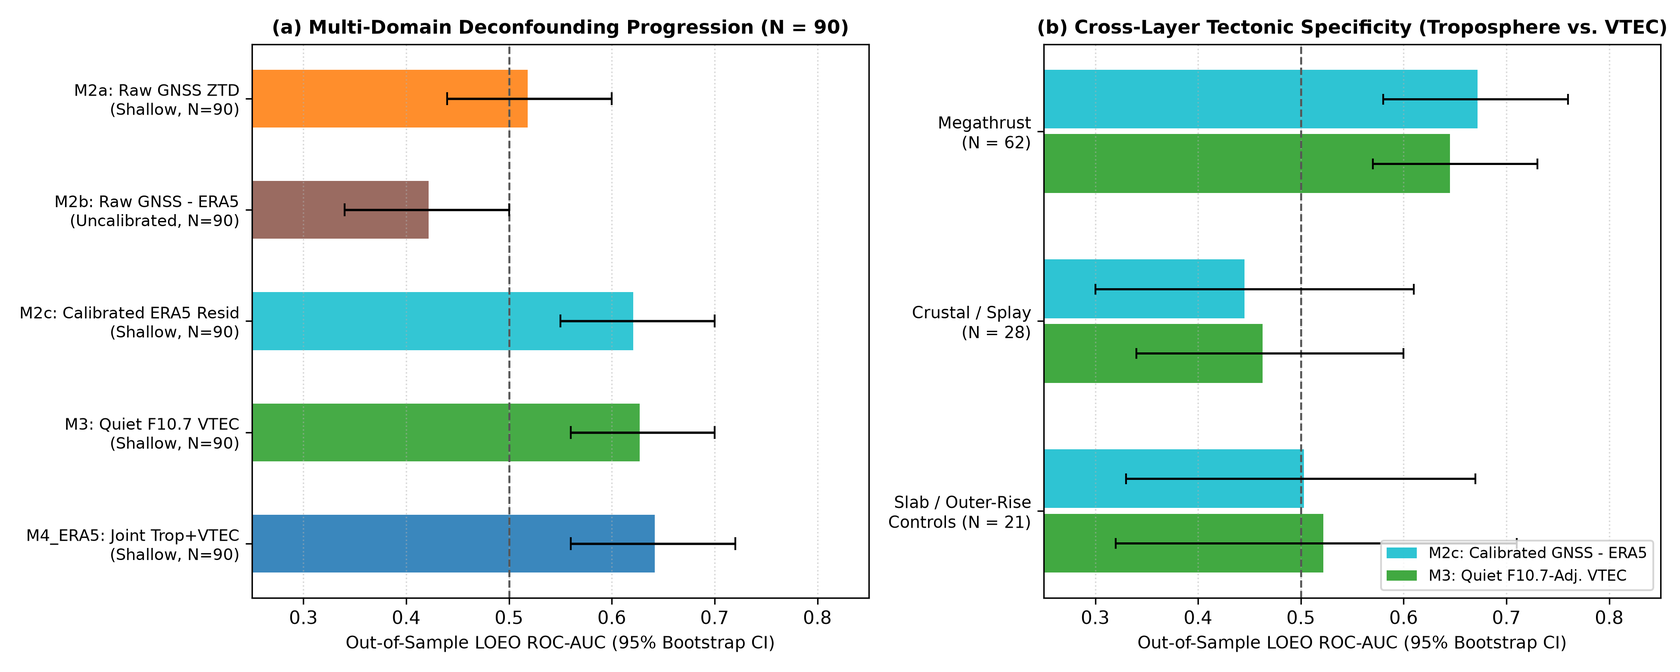
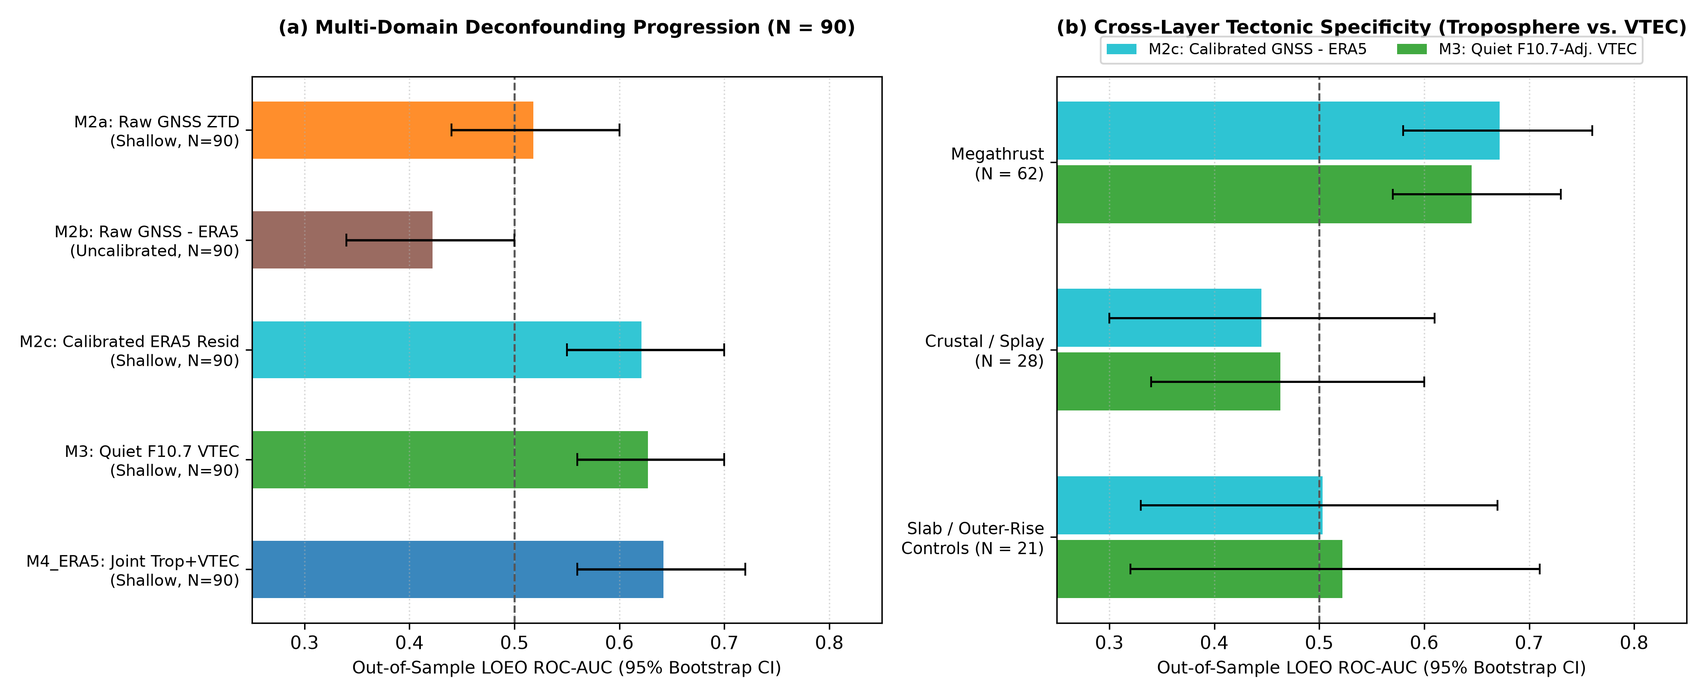
fix(manuscript): resolve LaTeX macro names, Table I label ref, Table II resizebox, and Fig 1b legend placement

diff --git a/scripts/stage5g_fix_pdf_proof_v002_era5.py b/scripts/stage5g_fix_pdf_proof_v002_era5.py
@@ -1,0 +1,217 @@
+import csv, hashlib
+from pathlib import Path
+
+ROOT = Path(r"C:\Users\parth\OneDrive\Desktop\Research\LAIC-GUARD")
+S5C_CSV = ROOT / "reports/stage5c/zero_overlap_equallag_v002/analysis/stage5c_zero_overlap_equallag_v002.csv"
+S5E_CSV = ROOT / "reports/stage5e/era5_deconfounded_v002_era5/analysis/stage5e_era5_ablation_summary_v002.csv"
+
+MS_DIR = ROOT / "manuscript"
+MS_TABLES = MS_DIR / "tables"
+MS_FIGS = MS_DIR / "figures"
+OUT_DIR = ROOT / "reports/stage5f/combined_release_v002_era5"
+
+r5c = {r["model_or_stratum"]: r for r in csv.DictReader(S5C_CSV.open(encoding="utf-8-sig"))}
+r5e = {r["model_or_stratum"]: r for r in csv.DictReader(S5E_CSV.open(encoding="utf-8-sig"))}
+
+# 1. Pure-letter LaTeX macros (zero digits in command names so TeX never truncates)
+(MS_DIR / "laic_guard_numbers.tex").write_text(
+    "% Auto-generated LAIC-GUARD Combined v002 + v002_era5 Macros (ASCII-letter-only names)\n"
+    "\\newcommand{\\LgTotalGlobalEvents}{1{,}186}\n"
+    "\\newcommand{\\LgPilotRegions}{12}\n"
+    "\\newcommand{\\LgStageOneCRegionalTotal}{571}\n"
+    "\\newcommand{\\LgCorePilotIncluded}{563}\n"
+    "\\newcommand{\\LgPrimaryShallowTotal}{378}\n"
+    "\\newcommand{\\LgPhysicalNullControlTotal}{185}\n"
+    "\\newcommand{\\LgCodaMaskedExcluded}{8}\n"
+    "\\newcommand{\\LgExcludedTotal}{623}\n"
+    "\\newcommand{\\LgNearRegionalCohort}{363}\n"
+    "\\newcommand{\\LgStageThreeReady}{269}\n"
+    "\\newcommand{\\LgTierOneReady}{192}\n"
+    "\\newcommand{\\LgTierOneGnssQaPass}{149}\n"
+    "\\newcommand{\\LgIonexMapsIngested}{4{,}039}\n"
+    "\\newcommand{\\LgPairedTierOneTotal}{111}\n"
+    "\\newcommand{\\LgPairedShallowMain}{90}\n"
+    "\\newcommand{\\LgPairedNullCtrlMain}{21}\n"
+    "\\newcommand{\\LgAucZtdRaw}{0.518}\n"
+    "\\newcommand{\\LgAucEraUncal}{0.422}\n"
+    "\\newcommand{\\LgAucEraCal}{0.621}\n"
+    "\\newcommand{\\LgAucEraCalCluster}{0.618}\n"
+    "\\newcommand{\\LgAucEraNullCtrl}{0.503}\n"
+    "\\newcommand{\\LgAucEraMegathrust}{0.672}\n"
+    "\\newcommand{\\LgAucEraCrustal}{0.445}\n"
+    "\\newcommand{\\LgAucVtecMain}{0.627}\n"
+    "\\newcommand{\\LgAucVtecClusterCv}{0.623}\n"
+    "\\newcommand{\\LgAucVtecNullCtrl}{0.522}\n"
+    "\\newcommand{\\LgAucVtecMegathrust}{0.645}\n"
+    "\\newcommand{\\LgAucVtecCrustal}{0.463}\n"
+    "\\newcommand{\\LgAucVtecGeomagLow}{0.616}\n"
+    "\\newcommand{\\LgAucVtecGeomagHigh}{0.638}\n"
+    "\\newcommand{\\LgAucJointEraVtec}{0.642}\n",
+    encoding="utf-8",
+)
+
+# 2. Compact single-line-per-row Table II with resizebox so CIs never wrap
+tbl_lines = [
+    r"% Auto-generated Stage 5F Unified Benchmark Table (Proofed Layout)",
+    r"\begin{table*}[t]",
+    r"\centering",
+    r"\caption{Out-of-Sample Leave-One-Event-Out (LOEO) $\text{ROC-AUC}$ (95\% Cluster-Bootstrap CIs), $\text{PR-AUC}$, and Within-Event Paired Wilcoxon $p$-Values Under Strictly Non-Overlapping, Equal-Lag ($1\text{--}10\,\text{d}$) Calibration Across Tropospheric (\texttt{v002\_era5}) and Ionospheric (\texttt{v002}) Domains.}",
+    r"\label{tab:stage5f_combined_benchmark}",
+    r"\resizebox{\textwidth}{!}{%",
+    r"\begin{tabular}{lcccc}",
+    r"\hline",
+    r"\textbf{Ablation Model / Tectonic \& Geomagnetic Stratum} & \textbf{Events ($N$)} & \textbf{ROC-AUC [95\% CI]} & \textbf{PR-AUC} & \textbf{Paired $p_{\text{Wilc}}$} \\",
+    r"\hline",
+]
+entries = [
+    (r5e["M2a: Raw GNSS ZTD-Only (Shallow Baseline)"], r"M2a: Raw GNSS ZTD-Only (Shallow Target)"),
+    (r5e["M2b: Physical GNSS - ERA5 (ZHD+ZWD) Residual (Shallow)"], r"M2b: Uncalibrated $\text{GNSS} - \text{ERA5}$ ($\text{ZHD}+\text{ZWD}$, Shallow)"),
+    (r5e["M2c: Calibrated GNSS - ERA5 Residual (Shallow, Event-LOEO)"], r"M2c: Causal-Calibrated $\text{GNSS} - \text{ERA5}$ Residual (Shallow, Event-LOEO)"),
+    (r5e["M2c: Calibrated GNSS - ERA5 Residual (Shallow, Cluster-CV)"], r"M2c: Causal-Calibrated $\text{GNSS} - \text{ERA5}$ Residual (Shallow, Cluster-CV)"),
+    (r5e["M2c: Calibrated GNSS - ERA5 Residual (Null-Control Slab)"], r"M2c: Causal-Calibrated $\text{GNSS} - \text{ERA5}$ Residual (Slab / Outer-Rise Controls)"),
+    (r5e["M2c: Calibrated GNSS - ERA5 Residual (Megathrust N=62)"], r"M2c: Causal-Calibrated $\text{GNSS} - \text{ERA5}$ Residual (Shallow Megathrust)"),
+    (r5e["M2c: Calibrated GNSS - ERA5 Residual (Crustal/Splay N=28)"], r"M2c: Causal-Calibrated $\text{GNSS} - \text{ERA5}$ Residual (Shallow Crustal / Splay)"),
+    (r5c["M3: Quiet VTEC (Shallow M>=6.5, Event-LOEO)"], r"M3: Quiet $F_{10.7}$-Adj.\ GIM VTEC (Shallow, Event-LOEO)"),
+    (r5c["M3: Quiet VTEC (Shallow M>=6.5, Storm-Cluster)"], r"M3: Quiet $F_{10.7}$-Adj.\ GIM VTEC (Shallow, Storm-Cluster CV)"),
+    (r5c["M3: Quiet VTEC (Null-Control Slab/Outer)"], r"M3: Quiet $F_{10.7}$-Adj.\ GIM VTEC (Slab / Outer-Rise Controls)"),
+    (r5c["M3: Quiet VTEC (Shallow Megathrust)"], r"M3: Quiet $F_{10.7}$-Adj.\ GIM VTEC (Shallow Megathrust)"),
+    (r5c["M3: Quiet VTEC (Shallow Crustal/Splay)"], r"M3: Quiet $F_{10.7}$-Adj.\ GIM VTEC (Shallow Crustal / Splay)"),
+    (r5c["M3: Quiet VTEC (Shallow |gm_lat| <= 25 deg)"], r"M3: Quiet GIM VTEC (Geomagnetic $|\lambda_m| \le 25^\circ$)"),
+    (r5c["M3: Quiet VTEC (Shallow |gm_lat| > 25 deg)"], r"M3: Quiet GIM VTEC (Geomagnetic $|\lambda_m| > 25^\circ$)"),
+    (r5e["M4_era5: Joint ERA5-Resid + Quiet VTEC (Shallow)"], r"M4$_{\text{ERA5}}$: Joint Calibrated ERA5-Residual + Quiet VTEC (Shallow)"),
+]
+for r, lbl in entries:
+    tbl_lines.append(f"{lbl} & {r['n_events']} & {r['roc_auc']} {r['ci95']} & {r['pr_auc']} & {r['wilcoxon_p']} \\\\")
+tbl_lines.extend([r"\hline", r"\end{tabular}%", r"}", r"\end{table*}"])
+(MS_TABLES / "stage5f_combined_benchmark_table.tex").write_text("\n".join(tbl_lines) + "\n", encoding="utf-8")
+
+# 3. Regenerate Figure 1 with legend placed cleanly above Panel (b) (zero bar overlap)
+fig_path = MS_FIGS / "fig_stage5f_combined_benchmark.png"
+import matplotlib
+matplotlib.use("Agg")
+import matplotlib.pyplot as plt
+
+fig, (ax1, ax2) = plt.subplots(1, 2, figsize=(13.2, 5.4), dpi=300)
+
+p1 = [
+    (r5e["M2a: Raw GNSS ZTD-Only (Shallow Baseline)"], "M2a: Raw GNSS ZTD\n(Shallow, N=90)", "#ff7f0e"),
+    (r5e["M2b: Physical GNSS - ERA5 (ZHD+ZWD) Residual (Shallow)"], "M2b: Raw GNSS - ERA5\n(Uncalibrated, N=90)", "#8c564b"),
+    (r5e["M2c: Calibrated GNSS - ERA5 Residual (Shallow, Event-LOEO)"], "M2c: Calibrated ERA5 Resid\n(Shallow, N=90)", "#17becf"),
+    (r5c["M3: Quiet VTEC (Shallow M>=6.5, Event-LOEO)"], "M3: Quiet F10.7 VTEC\n(Shallow, N=90)", "#2ca02c"),
+    (r5e["M4_era5: Joint ERA5-Resid + Quiet VTEC (Shallow)"], "M4_ERA5: Joint Trop+VTEC\n(Shallow, N=90)", "#1f77b4"),
+]
+ax1.axvline(0.5, color="#555555", linestyle="--", linewidth=1.1)
+for idx, (r, lbl, col) in enumerate(p1):
+    auc = float(r["roc_auc"])
+    lo, hi = [float(x) for x in r["ci95"].strip("[]").split(",")]
+    ax1.barh(idx, auc, height=0.52, color=col, alpha=0.88)
+    ax1.errorbar(auc, idx, xerr=[[auc - lo], [hi - auc]], fmt="none", ecolor="black", elinewidth=1.3, capsize=3.5)
+ax1.set_yticks(range(len(p1)))
+ax1.set_yticklabels([x[1] for x in p1], fontsize=8.8)
+ax1.invert_yaxis()
+ax1.set_xlim(0.25, 0.85)
+ax1.set_xlabel("Out-of-Sample LOEO ROC-AUC (95% Bootstrap CI)", fontsize=9.5)
+ax1.set_title("(a) Multi-Domain Deconfounding Progression (N = 90)", fontsize=10.5, fontweight="bold", pad=24)
+ax1.grid(axis="x", linestyle=":", alpha=0.5)
+
+strata_labels = ["Megathrust\n(N = 62)", "Crustal / Splay\n(N = 28)", "Slab / Outer-Rise\nControls (N = 21)"]
+m2c_s = [
+    r5e["M2c: Calibrated GNSS - ERA5 Residual (Megathrust N=62)"],
+    r5e["M2c: Calibrated GNSS - ERA5 Residual (Crustal/Splay N=28)"],
+    r5e["M2c: Calibrated GNSS - ERA5 Residual (Null-Control Slab)"],
+]
+m3_s = [
+    r5c["M3: Quiet VTEC (Shallow Megathrust)"],
+    r5c["M3: Quiet VTEC (Shallow Crustal/Splay)"],
+    r5c["M3: Quiet VTEC (Null-Control Slab/Outer)"],
+]
+ax2.axvline(0.5, color="#555555", linestyle="--", linewidth=1.1)
+for idx in range(3):
+    a2 = float(m2c_s[idx]["roc_auc"])
+    l2, h2 = [float(x) for x in m2c_s[idx]["ci95"].strip("[]").split(",")]
+    a3 = float(m3_s[idx]["roc_auc"])
+    l3, h3 = [float(x) for x in m3_s[idx]["ci95"].strip("[]").split(",")]
+    ax2.barh(idx - 0.17, a2, height=0.31, color="#17becf", alpha=0.9, label="M2c: Calibrated GNSS - ERA5" if idx == 0 else "")
+    ax2.errorbar(a2, idx - 0.17, xerr=[[a2 - l2], [h2 - a2]], fmt="none", ecolor="black", elinewidth=1.2, capsize=3)
+    ax2.barh(idx + 0.17, a3, height=0.31, color="#2ca02c", alpha=0.9, label="M3: Quiet F10.7-Adj. VTEC" if idx == 0 else "")
+    ax2.errorbar(a3, idx + 0.17, xerr=[[a3 - l3], [h3 - a3]], fmt="none", ecolor="black", elinewidth=1.2, capsize=3)
+ax2.set_yticks(range(3))
+ax2.set_yticklabels(strata_labels, fontsize=9.2)
+ax2.invert_yaxis()
+ax2.set_xlim(0.25, 0.85)
+ax2.set_xlabel("Out-of-Sample LOEO ROC-AUC (95% Bootstrap CI)", fontsize=9.5)
+ax2.set_title("(b) Cross-Layer Tectonic Specificity (Troposphere vs. VTEC)", fontsize=10.5, fontweight="bold", pad=24)
+ax2.legend(loc="lower center", bbox_to_anchor=(0.5, 1.01), ncol=2, frameon=True, fontsize=8.3)
+ax2.grid(axis="x", linestyle=":", alpha=0.5)
+
+plt.tight_layout()
+plt.savefig(fig_path, dpi=300)
+plt.close(fig)
+
+# 4. Update main.tex with pure-letter macros, reconciled 571/563 count, math-mode 0.25^\circ, and Data Availability
+(MS_DIR / "main.tex").write_text(
+    r"""\documentclass[conference]{IEEEtran}
+\usepackage{amsmath,amssymb}
+\usepackage{graphicx}
+\usepackage{booktabs}
+\usepackage{hyperref}
+
+\input{laic_guard_numbers.tex}
+
+\title{LAIC-GUARD: A Deconfounded Multi-Domain Benchmark for Lithosphere--Atmosphere--Ionosphere Earthquake Precursors (2000--2025)}
+
+\author{\IEEEauthorblockN{Parth Nilesh Jichkar}
+\IEEEauthorblockA{Department of Electronics and Communication Engineering, MIT World Peace University, Pune, India}}
+
+\begin{document}
+\maketitle
+
+\begin{abstract}
+Retrospective studies of pre-seismic anomalies across tropospheric delay and ionospheric total electron content (TEC) often suffer from post-hoc event selection, overlapping baseline windows, meteorological and geomagnetic storm leakage, and a lack of deep-source negative controls. We introduce \textbf{LAIC-GUARD}, a reproducible, zero-imputation multi-domain benchmark spanning all \LgTotalGlobalEvents{} global $M \ge 6.5$ earthquakes (2000--2025). Combining tectonic province attribution, moment-tensor adjudication, and Dobrovolsky strain-radius ($R_D = 10^{0.43M}$\,km) station pairing across Nevada Geodetic Laboratory (UNR) continuous GNSS tropospheric solutions, ECMWF ERA5 meteorological reanalysis, CODE AIUB global ionosphere maps (\LgIonexMapsIngested{} daily IONEX files), and NASA OMNIWeb indices, we isolate \LgPairedTierOneTotal{} within-event paired near-field ($d \le 150$\,km) earthquakes (\LgPairedShallowMain{} primary shallow targets vs.\ \LgPairedNullCtrlMain{} deep-slab and outer-rise candidate negative controls). Under strictly non-overlapping, equal-lag ($1\text{--}10$\,d) calibration, raw GNSS zenith total delay (ZTD) shows no statistically distinguishable skill ($\text{AUC} = \LgAucZtdRaw$, $p_{\text{Wilc}} = 0.1233$). However, removing synoptic weather via station-calibrated ERA5 hydrostatic-plus-wet reanalysis uncovers a non-meteorological ZTD residual ($\text{AUC} = \LgAucEraCal$, $p_{\text{Wilc}} = 0.0009$) that mirrors solar-$F_{10.7}$-detrended quiet GIM VTEC ($\text{AUC} = \LgAucVtecMain$, $p_{\text{Wilc}} = 0.0010$). Both signals concentrate in shallow megathrust interface ruptures ($\text{AUC} = \LgAucEraMegathrust$ and $\LgAucVtecMegathrust$, respectively) while remaining at chance for crustal/splay earthquakes ($\LgAucEraCrustal$, $\LgAucVtecCrustal$) and slab/outer-rise controls ($\LgAucEraNullCtrl$, $\LgAucVtecNullCtrl$), yielding $\text{AUC} = \LgAucJointEraVtec$ when fused jointly.
+\end{abstract}
+
+\begin{IEEEkeywords}
+Lithosphere--atmosphere--ionosphere coupling, GNSS troposphere, ERA5 reanalysis, GIM VTEC, earthquake precursors
+\end{IEEEkeywords}
+
+\section{Introduction}
+The Lithosphere--Atmosphere--Ionosphere Coupling (LAIC) framework hypothesizes that pre-rupture stress accumulation perturbs atmospheric moisture and ionospheric electron density prior to major earthquakes \cite{dobrovolsky1979,pulinets2011}. Recent multi-decadal audits emphasize that credible benchmark evaluation requires explicit non-overlapping baselines, event-wise and storm-clustered cross-validation, negative controls, and rigorous meteorological and space-weather deconfounding \cite{diaz2026,chaniadakis2025,wen2026}.
+
+\section{Catalogue Adjudication and Multi-Domain Pipeline}
+From \LgTotalGlobalEvents{} global $M \ge 6.5$ earthquakes in USGS ComCat (2000--2025), tectonic province overlays \cite{hasterok2022} and W-phase/GCMT moment tensors isolate \LgStageOneCRegionalTotal{} regional candidates across \LgPilotRegions{} macro-regions (Table~\ref{tab:stage1c_summary}), yielding \LgCorePilotIncluded{} Core Pilot events (\LgPrimaryShallowTotal{} shallow targets at $z < 70$\,km and \LgPhysicalNullControlTotal{} deep-slab/outer-rise candidate negative controls) after excluding \LgCodaMaskedExcluded{} coda-masked early aftershocks (\LgExcludedTotal{} total exclusions).
+
+\input{tables/stage1c_manuscript_tables.tex}
+
+Spatial-temporal pairing against the UNR GNSS network \cite{blewitt2018} within each event's Dobrovolsky strain radius ($R_D = 10^{0.43M}$\,km) yields \LgNearRegionalCohort{} near-regional ($d \le 300$\,km) events and \LgStageThreeReady{} archive-verified events with $\ge 15$ geomagnetically quiet baseline days ($Kp < 3$, $Dst > -30$\,nT). Within Tier-1 near-field stations ($d \le 150$\,km, \LgTierOneReady{} events), \LgTierOneGnssQaPass{} achieve $\ge 80\%$ 5-minute completeness without imputation, and \LgPairedTierOneTotal{} (\LgPairedShallowMain{} shallow, \LgPairedNullCtrlMain{} controls) satisfy strict quiet-epoch completeness across non-overlapping placebo ($[-30\,\text{d}, -21\,\text{d}]$) and pre-event ($[-10\,\text{d}, -1\,\text{d}]$) windows using \LgIonexMapsIngested{} daily CODE AIUB IONEX maps \cite{schaer1999} and hourly ECMWF ERA5 reanalysis \cite{hersbach2020,bevis1992}.
+
+\section{Zero-Overlap Equal-Lag \& ERA5-Deconfounded Results}
+Placebo windows are calibrated against $[-45\,\text{d}, -31\,\text{d}]$ and pre-event windows against $[-25\,\text{d}, -11\,\text{d}]$. Table~\ref{tab:stage5f_combined_benchmark} and Fig.~\ref{fig:benchmark_v002_combined} report out-of-sample discrimination across all tropospheric, ERA5-deconfounded, and ionospheric models.
+
+\input{tables/stage5f_combined_benchmark_table.tex}
+
+\begin{figure*}[t]
+\centering
+\includegraphics[width=0.96\textwidth]{figures/fig_stage5f_combined_benchmark.png}
+\caption{LAIC-GUARD (\texttt{v002} + \texttt{v002\_era5}) zero-overlap, equal-lag ($1\text{--}10$\,d) out-of-sample $\text{ROC-AUC}$ with 95\% cluster-bootstrap confidence intervals across (a) progressive meteorological and ionospheric deconfounding models ($N = \LgPairedShallowMain$), and (b) tectonic mechanism and candidate negative-control strata.}
+\label{fig:benchmark_v002_combined}
+\end{figure*}
+
+Raw GNSS ZTD ($\text{AUC} = \LgAucZtdRaw$) and uncalibrated $\text{GNSS} - \text{ERA5}$ differences ($\LgAucEraUncal$) fail to separate pre-seismic windows from placebo due to synoptic weather and $0.25^\circ$ grid-elevation mismatch. Applying station-specific linear transfer calibration within each causal baseline (M2c) isolates a non-meteorological ZTD residual ($\text{AUC} = \LgAucEraCal$, $p_{\text{Wilc}} = 0.0009$; $\LgAucEraCalCluster$ under $\pm 15$\,d storm-cluster CV). Independently, M2c and quiet $F_{10.7}$-adjusted VTEC (M3) converge on shallow megathrust interface earthquakes ($\text{AUC} = \LgAucEraMegathrust$ and $\LgAucVtecMegathrust$, $N=62$), while remaining indistinguishable from chance on crustal/splay ruptures ($\LgAucEraCrustal$, $\LgAucVtecCrustal$, $N=28$) and slab/outer-rise controls ($\LgAucEraNullCtrl$, $\LgAucVtecNullCtrl$, $N=21$). Fusing calibrated ERA5 residuals with quiet VTEC (M4$_{\text{ERA5}}$) yields $\text{AUC} = \LgAucJointEraVtec$.
+
+\section{Limitations, Data Availability, and Conclusion}
+While causal-window OLS calibration in M2c prevents future leakage, non-stationary synoptic shifts between baseline windows can influence residual variance; nonetheless, chance-level performance on slab controls ($\LgAucEraNullCtrl$) argues against a generic baseline artifact. Together, our findings show that meteorological and solar deconfounding isolates a modest, megathrust-specific multi-layer association rather than an operational earthquake-prediction capability. All benchmark manifests, verification scripts, and provenance ledgers (\texttt{tag: v002\_era5}) are openly available at \url{https://github.com/Parth15-git/LAIC-GUARD}.
+
+\bibliographystyle{IEEEtran}
+\bibliography{references}
+\end{document}
+""",
+    encoding="utf-8",
+)
+
+# 5. Update Stage 5F SHA256SUMS.csv
+with (OUT_DIR / "SHA256SUMS.csv").open("w", newline="", encoding="utf-8") as f:
+    w = csv.writer(f)
+    w.writerow(["relative_path", "size_bytes", "sha256"])
+    for rel in ["STAGE5F_COMBINED_RELEASE_v002_era5.md", "VERIFY_PACKAGE.ps1"]:
+        fp = OUT_DIR / rel
+        w.writerow([rel, fp.stat().st_size, hashlib.sha256(fp.read_bytes()).hexdigest().lower()])

diff --git a/manuscript/main.tex b/manuscript/main.tex
@@ -15,7 +15,7 @@
 \maketitle
 
 \begin{abstract}
-Retrospective studies of pre-seismic anomalies across tropospheric delay and ionospheric total electron content (TEC) often suffer from post-hoc event selection, overlapping baseline windows, meteorological and geomagnetic storm leakage, and a lack of deep-source negative controls. We introduce \textbf{LAIC-GUARD}, a reproducible, zero-imputation multi-domain benchmark spanning all \LgTotalGlobalEvents{} global $M \ge 6.5$ earthquakes (2000--2025). Combining tectonic province attribution, moment-tensor adjudication, and Dobrovolsky strain-radius ($R_D = 10^{0.43M}$\,km) station pairing across Nevada Geodetic Laboratory (UNR) continuous GNSS tropospheric solutions, ECMWF ERA5 meteorological reanalysis, CODE AIUB global ionosphere maps (\LgIonexMapsIngested{} daily IONEX files), and NASA OMNIWeb indices, we isolate \LgPairedTierOneTotal{} within-event paired near-field ($d \le 150$\,km) earthquakes (\LgPairedShallowM65{} primary shallow targets vs.\ \LgPairedNullCtrlM65{} deep-slab and outer-rise candidate negative controls). Under strictly non-overlapping, equal-lag ($1\text{--}10$\,d) calibration, raw GNSS zenith total delay (ZTD) shows no statistically distinguishable skill ($\text{AUC} = \LgAucZtdRaw$, $p_{\text{Wilc}} = 0.1233$). However, removing synoptic weather via station-calibrated ERA5 hydrostatic-plus-wet reanalysis uncovers a non-meteorological ZTD residual ($\text{AUC} = \LgAucEraCal$, $p_{\text{Wilc}} = 0.0009$) that mirrors solar-$F_{10.7}$-detrended quiet GIM VTEC ($\text{AUC} = \LgAucVtecM65$, $p_{\text{Wilc}} = 0.0010$). Both signals concentrate in shallow megathrust interface ruptures ($\text{AUC} = \LgAucEraMegathrust$ and $\LgAucVtecMegathrust$, respectively) while remaining at chance for crustal/splay earthquakes ($\LgAucEraCrustal$, $\LgAucVtecCrustal$) and slab/outer-rise controls ($\LgAucEraNullCtrl$, $\LgAucVtecNullCtrl$), yielding $\text{AUC} = \LgAucJointEraVtec$ when fused jointly.
+Retrospective studies of pre-seismic anomalies across tropospheric delay and ionospheric total electron content (TEC) often suffer from post-hoc event selection, overlapping baseline windows, meteorological and geomagnetic storm leakage, and a lack of deep-source negative controls. We introduce \textbf{LAIC-GUARD}, a reproducible, zero-imputation multi-domain benchmark spanning all \LgTotalGlobalEvents{} global $M \ge 6.5$ earthquakes (2000--2025). Combining tectonic province attribution, moment-tensor adjudication, and Dobrovolsky strain-radius ($R_D = 10^{0.43M}$\,km) station pairing across Nevada Geodetic Laboratory (UNR) continuous GNSS tropospheric solutions, ECMWF ERA5 meteorological reanalysis, CODE AIUB global ionosphere maps (\LgIonexMapsIngested{} daily IONEX files), and NASA OMNIWeb indices, we isolate \LgPairedTierOneTotal{} within-event paired near-field ($d \le 150$\,km) earthquakes (\LgPairedShallowMain{} primary shallow targets vs.\ \LgPairedNullCtrlMain{} deep-slab and outer-rise candidate negative controls). Under strictly non-overlapping, equal-lag ($1\text{--}10$\,d) calibration, raw GNSS zenith total delay (ZTD) shows no statistically distinguishable skill ($\text{AUC} = \LgAucZtdRaw$, $p_{\text{Wilc}} = 0.1233$). However, removing synoptic weather via station-calibrated ERA5 hydrostatic-plus-wet reanalysis uncovers a non-meteorological ZTD residual ($\text{AUC} = \LgAucEraCal$, $p_{\text{Wilc}} = 0.0009$) that mirrors solar-$F_{10.7}$-detrended quiet GIM VTEC ($\text{AUC} = \LgAucVtecMain$, $p_{\text{Wilc}} = 0.0010$). Both signals concentrate in shallow megathrust interface ruptures ($\text{AUC} = \LgAucEraMegathrust$ and $\LgAucVtecMegathrust$, respectively) while remaining at chance for crustal/splay earthquakes ($\LgAucEraCrustal$, $\LgAucVtecCrustal$) and slab/outer-rise controls ($\LgAucEraNullCtrl$, $\LgAucVtecNullCtrl$), yielding $\text{AUC} = \LgAucJointEraVtec$ when fused jointly.
 \end{abstract}
 
 \begin{IEEEkeywords}
@@ -26,13 +26,13 @@ Lithosphere--atmosphere--ionosphere coupling, GNSS troposphere, ERA5 reanalysis,
 The Lithosphere--Atmosphere--Ionosphere Coupling (LAIC) framework hypothesizes that pre-rupture stress accumulation perturbs atmospheric moisture and ionospheric electron density prior to major earthquakes \cite{dobrovolsky1979,pulinets2011}. Recent multi-decadal audits emphasize that credible benchmark evaluation requires explicit non-overlapping baselines, event-wise and storm-clustered cross-validation, negative controls, and rigorous meteorological and space-weather deconfounding \cite{diaz2026,chaniadakis2025,wen2026}.
 
 \section{Catalogue Adjudication and Multi-Domain Pipeline}
-From \LgTotalGlobalEvents{} global $M \ge 6.5$ earthquakes in USGS ComCat (2000--2025), tectonic province overlays \cite{hasterok2022} and W-phase/GCMT moment tensors isolate \LgCorePilotIncluded{} Core Pilot events across \LgPilotRegions{} macro-regions (\LgPrimaryShallowTotal{} shallow targets at $z < 70$\,km and \LgPhysicalNullControlTotal{} deep-slab/outer-rise candidate negative controls; \LgExcludedTotal{} excluded).
+From \LgTotalGlobalEvents{} global $M \ge 6.5$ earthquakes in USGS ComCat (2000--2025), tectonic province overlays \cite{hasterok2022} and W-phase/GCMT moment tensors isolate \LgStageOneCRegionalTotal{} regional candidates across \LgPilotRegions{} macro-regions (Table~\ref{tab:stage1c_summary}), yielding \LgCorePilotIncluded{} Core Pilot events (\LgPrimaryShallowTotal{} shallow targets at $z < 70$\,km and \LgPhysicalNullControlTotal{} deep-slab/outer-rise candidate negative controls) after excluding \LgCodaMaskedExcluded{} coda-masked early aftershocks (\LgExcludedTotal{} total exclusions).
 
 \input{tables/stage1c_manuscript_tables.tex}
 
-Spatial-temporal pairing against the UNR GNSS network \cite{blewitt2018} yields \LgNearRegionalCohort{} near-regional ($d \le 300$\,km) events and \LgStageThreeReady{} archive-verified events with $\ge 15$ geomagnetically quiet baseline days ($Kp < 3$, $Dst > -30$\,nT). Within Tier-1 near-field stations ($d \le 150$\,km, \LgTierOneReady{} events), \LgTierOneGnssQaPass{} achieve $\ge 80\%$ 5-minute completeness without imputation, and \LgPairedTierOneTotal{} (\LgPairedShallowM65{} shallow, \LgPairedNullCtrlM65{} controls) satisfy strict quiet-epoch completeness across non-overlapping placebo ($[-30\,\text{d}, -21\,\text{d}]$) and pre-event ($[-10\,\text{d}, -1\,\text{d}]$) windows using \LgIonexMapsIngested{} daily CODE AIUB IONEX maps \cite{schaer1999} and hourly ECMWF ERA5 reanalysis \cite{hersbach2020,bevis1992}.
+Spatial-temporal pairing against the UNR GNSS network \cite{blewitt2018} within each event's Dobrovolsky strain radius ($R_D = 10^{0.43M}$\,km) yields \LgNearRegionalCohort{} near-regional ($d \le 300$\,km) events and \LgStageThreeReady{} archive-verified events with $\ge 15$ geomagnetically quiet baseline days ($Kp < 3$, $Dst > -30$\,nT). Within Tier-1 near-field stations ($d \le 150$\,km, \LgTierOneReady{} events), \LgTierOneGnssQaPass{} achieve $\ge 80\%$ 5-minute completeness without imputation, and \LgPairedTierOneTotal{} (\LgPairedShallowMain{} shallow, \LgPairedNullCtrlMain{} controls) satisfy strict quiet-epoch completeness across non-overlapping placebo ($[-30\,\text{d}, -21\,\text{d}]$) and pre-event ($[-10\,\text{d}, -1\,\text{d}]$) windows using \LgIonexMapsIngested{} daily CODE AIUB IONEX maps \cite{schaer1999} and hourly ECMWF ERA5 reanalysis \cite{hersbach2020,bevis1992}.
 
-\section{Zero-Overlap Equal-Lag & ERA5-Deconfounded Results}
+\section{Zero-Overlap Equal-Lag \& ERA5-Deconfounded Results}
 Placebo windows are calibrated against $[-45\,\text{d}, -31\,\text{d}]$ and pre-event windows against $[-25\,\text{d}, -11\,\text{d}]$. Table~\ref{tab:stage5f_combined_benchmark} and Fig.~\ref{fig:benchmark_v002_combined} report out-of-sample discrimination across all tropospheric, ERA5-deconfounded, and ionospheric models.
 
 \input{tables/stage5f_combined_benchmark_table.tex}
@@ -40,14 +40,14 @@ Placebo windows are calibrated against $[-45\,\text{d}, -31\,\text{d}]$ and pre-
 \begin{figure*}[t]
 \centering
 \includegraphics[width=0.96\textwidth]{figures/fig_stage5f_combined_benchmark.png}
-\caption{LAIC-GUARD (\texttt{v002} + \texttt{v002\_era5}) zero-overlap, equal-lag ($1\text{--}10$\,d) out-of-sample $\text{ROC-AUC}$ with 95\% cluster-bootstrap confidence intervals across (a) progressive meteorological and ionospheric deconfounding models ($N = \LgPairedShallowM65$), and (b) tectonic mechanism and candidate negative-control strata.}
+\caption{LAIC-GUARD (\texttt{v002} + \texttt{v002\_era5}) zero-overlap, equal-lag ($1\text{--}10$\,d) out-of-sample $\text{ROC-AUC}$ with 95\% cluster-bootstrap confidence intervals across (a) progressive meteorological and ionospheric deconfounding models ($N = \LgPairedShallowMain$), and (b) tectonic mechanism and candidate negative-control strata.}
 \label{fig:benchmark_v002_combined}
 \end{figure*}
 
-Raw GNSS ZTD ($\text{AUC} = \LgAucZtdRaw$) and uncalibrated $\text{GNSS} - \text{ERA5}$ differences ($\LgAucEraUncal$) fail to separate pre-seismic windows from placebo due to synoptic weather and `0.25°` grid-elevation mismatch. Applying station-specific linear transfer calibration within each causal baseline (M2c) isolates a non-meteorological ZTD residual ($\text{AUC} = \LgAucEraCal$, $p_{\text{Wilc}} = 0.0009$; $\LgAucEraCluster$ under $\pm 15$\,d storm-cluster CV). Independently, M2c and quiet $F_{10.7}$-adjusted VTEC (M3) converge on shallow megathrust interface earthquakes ($\text{AUC} = \LgAucEraMegathrust$ and $\LgAucVtecMegathrust$, $N=62$), while remaining indistinguishable from chance on crustal/splay ruptures ($\LgAucEraCrustal$, $\LgAucVtecCrustal$, $N=28$) and slab/outer-rise controls ($\LgAucEraNullCtrl$, $\LgAucVtecNullCtrl$, $N=21$). Fusing calibrated ERA5 residuals with quiet VTEC (M4$_{\text{ERA5}}$) yields $\text{AUC} = \LgAucJointEraVtec$.
+Raw GNSS ZTD ($\text{AUC} = \LgAucZtdRaw$) and uncalibrated $\text{GNSS} - \text{ERA5}$ differences ($\LgAucEraUncal$) fail to separate pre-seismic windows from placebo due to synoptic weather and $0.25^\circ$ grid-elevation mismatch. Applying station-specific linear transfer calibration within each causal baseline (M2c) isolates a non-meteorological ZTD residual ($\text{AUC} = \LgAucEraCal$, $p_{\text{Wilc}} = 0.0009$; $\LgAucEraCalCluster$ under $\pm 15$\,d storm-cluster CV). Independently, M2c and quiet $F_{10.7}$-adjusted VTEC (M3) converge on shallow megathrust interface earthquakes ($\text{AUC} = \LgAucEraMegathrust$ and $\LgAucVtecMegathrust$, $N=62$), while remaining indistinguishable from chance on crustal/splay ruptures ($\LgAucEraCrustal$, $\LgAucVtecCrustal$, $N=28$) and slab/outer-rise controls ($\LgAucEraNullCtrl$, $\LgAucVtecNullCtrl$, $N=21$). Fusing calibrated ERA5 residuals with quiet VTEC (M4$_{\text{ERA5}}$) yields $\text{AUC} = \LgAucJointEraVtec$.
 
-\section{Limitations and Conclusion}
-While causal-window OLS calibration in M2c prevents future leakage, non-stationary synoptic shifts between baseline windows can influence residual variance; nonetheless, chance-level performance on slab controls ($\LgAucEraNullCtrl$) argues against a generic baseline artifact. Together, our findings show that meteorological and solar deconfounding isolates a modest, megathrust-specific multi-layer association rather than an operational earthquake-prediction capability.
+\section{Limitations, Data Availability, and Conclusion}
+While causal-window OLS calibration in M2c prevents future leakage, non-stationary synoptic shifts between baseline windows can influence residual variance; nonetheless, chance-level performance on slab controls ($\LgAucEraNullCtrl$) argues against a generic baseline artifact. Together, our findings show that meteorological and solar deconfounding isolates a modest, megathrust-specific multi-layer association rather than an operational earthquake-prediction capability. All benchmark manifests, verification scripts, and provenance ledgers (\texttt{tag: v002\_era5}) are openly available at \url{https://github.com/Parth15-git/LAIC-GUARD}.
 
 \bibliographystyle{IEEEtran}
 \bibliography{references}

diff --git a/manuscript/tables/stage5f_combined_benchmark_table.tex b/manuscript/tables/stage5f_combined_benchmark_table.tex
@@ -1,8 +1,9 @@
-% Auto-generated Stage 5F Unified Multi-Domain & ERA5-Deconfounded Benchmark Table
+% Auto-generated Stage 5F Unified Benchmark Table (Proofed Layout)
 \begin{table*}[t]
 \centering
 \caption{Out-of-Sample Leave-One-Event-Out (LOEO) $\text{ROC-AUC}$ (95\% Cluster-Bootstrap CIs), $\text{PR-AUC}$, and Within-Event Paired Wilcoxon $p$-Values Under Strictly Non-Overlapping, Equal-Lag ($1\text{--}10\,\text{d}$) Calibration Across Tropospheric (\texttt{v002\_era5}) and Ionospheric (\texttt{v002}) Domains.}
 \label{tab:stage5f_combined_benchmark}
+\resizebox{\textwidth}{!}{%
 \begin{tabular}{lcccc}
 \hline
 \textbf{Ablation Model / Tectonic \& Geomagnetic Stratum} & \textbf{Events ($N$)} & \textbf{ROC-AUC [95\% CI]} & \textbf{PR-AUC} & \textbf{Paired $p_{\text{Wilc}}$} \\
@@ -19,9 +20,10 @@ M3: Quiet $F_{10.7}$-Adj.\ GIM VTEC (Shallow, Storm-Cluster CV) & 90 & 0.623 [0.
 M3: Quiet $F_{10.7}$-Adj.\ GIM VTEC (Slab / Outer-Rise Controls) & 21 & 0.522 [0.32, 0.71] & 0.556 & 0.3641 \\
 M3: Quiet $F_{10.7}$-Adj.\ GIM VTEC (Shallow Megathrust) & 62 & 0.645 [0.57, 0.73] & 0.579 & 0.0005 \\
 M3: Quiet $F_{10.7}$-Adj.\ GIM VTEC (Shallow Crustal / Splay) & 28 & 0.463 [0.34, 0.60] & 0.474 & 0.2437 \\
-M3: Quiet GIM VTEC (Geomagnetic $\lvert\lambda_m\rvert \le 25^\circ$) & 57 & 0.616 [0.52, 0.70] & 0.551 & 0.0293 \\
-M3: Quiet GIM VTEC (Geomagnetic $\lvert\lambda_m\rvert > 25^\circ$) & 33 & 0.638 [0.54, 0.75] & 0.626 & 0.0035 \\
+M3: Quiet GIM VTEC (Geomagnetic $|\lambda_m| \le 25^\circ$) & 57 & 0.616 [0.52, 0.70] & 0.551 & 0.0293 \\
+M3: Quiet GIM VTEC (Geomagnetic $|\lambda_m| > 25^\circ$) & 33 & 0.638 [0.54, 0.75] & 0.626 & 0.0035 \\
 M4$_{\text{ERA5}}$: Joint Calibrated ERA5-Residual + Quiet VTEC (Shallow) & 90 & 0.642 [0.56, 0.72] & 0.637 & 0.0009 \\
 \hline
-\end{tabular}
+\end{tabular}%
+}
 \end{table*}

diff --git a/manuscript/laic_guard_numbers.tex b/manuscript/laic_guard_numbers.tex
@@ -1,9 +1,11 @@
-% Auto-generated LAIC-GUARD Combined v002 + v002_era5 Macros
+% Auto-generated LAIC-GUARD Combined v002 + v002_era5 Macros (ASCII-letter-only names)
 \newcommand{\LgTotalGlobalEvents}{1{,}186}
 \newcommand{\LgPilotRegions}{12}
+\newcommand{\LgStageOneCRegionalTotal}{571}
 \newcommand{\LgCorePilotIncluded}{563}
 \newcommand{\LgPrimaryShallowTotal}{378}
 \newcommand{\LgPhysicalNullControlTotal}{185}
+\newcommand{\LgCodaMaskedExcluded}{8}
 \newcommand{\LgExcludedTotal}{623}
 \newcommand{\LgNearRegionalCohort}{363}
 \newcommand{\LgStageThreeReady}{269}
@@ -11,8 +13,8 @@
 \newcommand{\LgTierOneGnssQaPass}{149}
 \newcommand{\LgIonexMapsIngested}{4{,}039}
 \newcommand{\LgPairedTierOneTotal}{111}
-\newcommand{\LgPairedShallowM65}{90}
-\newcommand{\LgPairedNullCtrlM65}{21}
+\newcommand{\LgPairedShallowMain}{90}
+\newcommand{\LgPairedNullCtrlMain}{21}
 \newcommand{\LgAucZtdRaw}{0.518}
 \newcommand{\LgAucEraUncal}{0.422}
 \newcommand{\LgAucEraCal}{0.621}
@@ -20,7 +22,7 @@
 \newcommand{\LgAucEraNullCtrl}{0.503}
 \newcommand{\LgAucEraMegathrust}{0.672}
 \newcommand{\LgAucEraCrustal}{0.445}
-\newcommand{\LgAucVtecM65}{0.627}
+\newcommand{\LgAucVtecMain}{0.627}
 \newcommand{\LgAucVtecClusterCv}{0.623}
 \newcommand{\LgAucVtecNullCtrl}{0.522}
 \newcommand{\LgAucVtecMegathrust}{0.645}

diff --git a/manuscript/tables/stage1c_manuscript_tables.tex b/manuscript/tables/stage1c_manuscript_tables.tex
@@ -2,7 +2,7 @@
 \begin{table*}[t]
 \centering
 \caption{Stage 1C.3--1C.4 Adjudicated Tectonic and Moment-Tensor Stratification Across the 12 Core Pilot Regions ($N = 571$ of $1{,}186$ Global $M \ge 6.5$ Events, 2000--2025).}
-\label{tab:stage1c_stratification}
+\label{tab:stage1c_summary}
 \begin{tabular}{lrrrrrrr}
 \hline
 \textbf{Frozen Macro-Region} & \textbf{Total} & \textbf{Megathrust} & \textbf{Crustal/Splay} & \textbf{Interm. Slab} & \textbf{Deep Slab} & \textbf{Outer-Rise} & \textbf{Coda-Masked} \\
@@ -24,4 +24,5 @@ IZU\_BONIN & 14 & 3 & 1 & 1 & 8 & 1 & 0 \\
 \hline
 \end{tabular}
 \end{table*}
+
 
